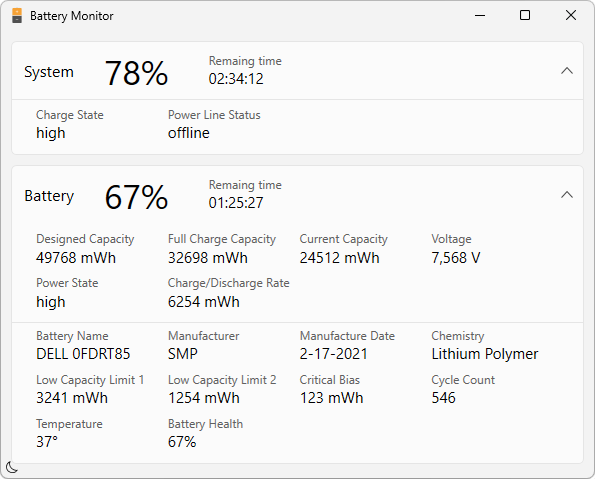
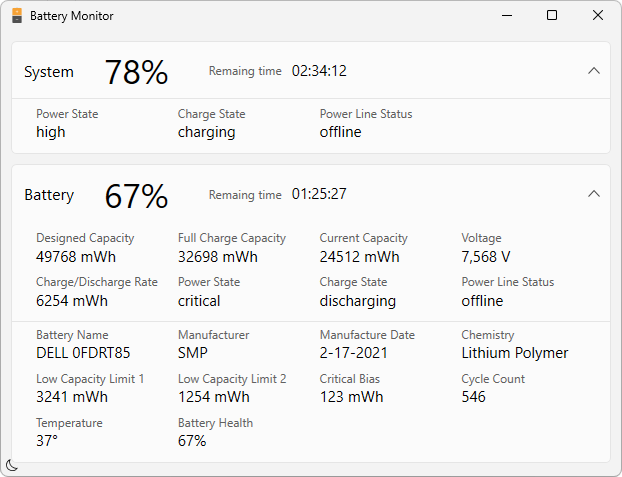
split up combined power and charging status to separate display entities

diff --git a/MainWindow.xaml b/MainWindow.xaml
@@ -7,8 +7,8 @@
         xmlns:s="clr-namespace:BatteryMonitor"
         x:Name="Window"
         Title="{x:Static p:Resources.WindowTitle}"
-        Width="364"
-        Height="329"
+        Width="477"
+        Height="340"
         MinWidth="250"
         MinHeight="251"
         Background="{DynamicResource WindowBackgroundBrush}"
@@ -51,7 +51,7 @@
 
                                     <s:ValueControl x:Name="SystemCapacity"
                                                     Grid.Column="1"
-                                                    Margin="30,2,20,2"
+                                                    Margin="30,1,20,2"
                                                     Style="{StaticResource PercentValueStyle}"
                                                     Value="" />
                                 </Grid>
@@ -62,8 +62,10 @@
                             </WrapPanel>
                         </Grid>
                     </Expander.Header>
-                    <WrapPanel Margin="20,2,0,0">
+                    <WrapPanel Margin="20,2,0,0" HorizontalAlignment="Stretch">
                         <s:LabelValuePair x:Name="SystemPowerState"
+                                          Label="{x:Static p:Resources.LabelPowerState}" />
+                        <s:LabelValuePair x:Name="SystemChargeState"
                                           Label="{x:Static p:Resources.LabelChargeState}" />
                         <s:LabelValuePair x:Name="SystemPowerLineStatus"
                                           Label="{x:Static p:Resources.LabelPowerLineStatus}" />
@@ -104,7 +106,7 @@
                                                       Style="{StaticResource RemainingTimeValueStyle}" />
                                 </WrapPanel>
 
-                                <WrapPanel Margin="20,11,0,0">
+                                <WrapPanel Margin="20,11,0,0" HorizontalAlignment="Stretch">
                                     <s:LabelValuePair x:Name="DesignedCapacity"
                                                       Label="{x:Static p:Resources.LabelDesignCapacity}"
                                                       Unit=" mWh" />
@@ -117,16 +119,20 @@
                                     <s:LabelValuePair x:Name="Voltage"
                                                       Label="{x:Static p:Resources.LabelVoltage}"
                                                       Unit=" V" />
-                                    <s:LabelValuePair x:Name="PowerState"
-                                                      Label="{x:Static p:Resources.LabelPowerState}" />
                                     <s:LabelValuePair x:Name="Rate"
                                                       Label="{x:Static p:Resources.LabelRate}"
                                                       Unit=" mWh" />
+                                    <s:LabelValuePair x:Name="ChargeState"
+                                                      Label="{x:Static p:Resources.LabelPowerState}" />
+                                    <s:LabelValuePair x:Name="PowerState"
+                                                      Label="{x:Static p:Resources.LabelChargeState}" />
+                                    <s:LabelValuePair x:Name="PowerLineState"
+                                                      Label="{x:Static p:Resources.LabelPowerLineStatus}" />
                                 </WrapPanel>
                             </StackPanel>
                         </Grid>
                     </Expander.Header>
-                    <WrapPanel Margin="20,0,0,0">
+                    <WrapPanel Margin="20,0,0,0" HorizontalAlignment="Stretch">
                         <s:LabelValuePair x:Name="DeviceName"
                                           Label="{x:Static p:Resources.LabelBatteryName}" />
                         <s:LabelValuePair x:Name="Manufacture"

diff --git a/Styles.xaml b/Styles.xaml
@@ -593,6 +593,7 @@
                         <Grid.ColumnDefinitions>
                             <ColumnDefinition Width="Auto"
                                               SharedSizeGroup="ColumnGroupLabel" />
+                            <ColumnDefinition Width="10"/>
                         </Grid.ColumnDefinitions>
                         <Grid.RowDefinitions>
                             <RowDefinition />
@@ -692,7 +693,6 @@
                         <Grid.RowDefinitions>
                             <RowDefinition />
                         </Grid.RowDefinitions>
-                        <StackPanel>
                             <Label Grid.Column="0"
                                    Content="{TemplateBinding Label}"
                                    Style="{DynamicResource DescriptionStyle}" />
@@ -705,7 +705,6 @@
                                    Content="--"
                                    Style="{DynamicResource ValueStyle}"
                                    Visibility="Collapsed" />
-                        </StackPanel>
                     </Grid>
                     <ControlTemplate.Triggers>
                         <Trigger Property="Value" Value="">

diff --git a/MainWindow.xaml.cs b/MainWindow.xaml.cs
@@ -44,20 +44,23 @@ namespace BatteryMonitor
 #if DEBUG
             else
             {
-                ShowFakeDate();
+                ShowFakeData();
             }
 #endif
         }
 
 #if DEBUG
-        private void ShowFakeDate()
+        private void ShowFakeData()
         {
-            SystemPowerState.Value = ConvertPowerState(BatteryChargeStatus.High);
-            SystemPowerLineStatus.Value = ConvertPowerLineStatus(System.Windows.Forms.PowerLineStatus.Offline);
+            // system
+
+            SystemPowerState.Value = ConvertSystemPowerState(BatteryChargeStatus.High);
+            SystemChargeState.Value = ConvertSystemChargeState(BatteryChargeStatus.Charging, System.Windows.Forms.PowerLineStatus.Online);
+            SystemPowerLineStatus.Value = ConvertSystemPowerLineStatus(System.Windows.Forms.PowerLineStatus.Offline);
             RemainingSystemTime.Value = TimeSpan.FromSeconds(2 * 60 * 60 + 34 * 60 + 12).ToString();
             SystemCapacity.Value = "78";
 
-            ///
+            // battery
 
             DeviceName.Value = "DELL 0FDRT85";
             Manufacture.Value = "SMP";
@@ -76,7 +79,9 @@ namespace BatteryMonitor
             DefaultAlert1.Value = "3241";
             DefaultAlert2.Value = "1254";
             CriticalBias.Value = "123";
-            PowerState.Value = ConvertPowerState(BatteryChargeStatus.High);
+            ChargeState.Value = ConvertBatteryChargeState(PowerStates.Critical);
+            PowerState.Value = ConvertBatteryPowerState(PowerStates.Discharging);
+            PowerLineState.Value = ConvertBatteryPowerLineState(0);
             CylceCount.Value = "546";
             Temperature.Value = "37";
         }
@@ -100,8 +105,9 @@ namespace BatteryMonitor
         {
             PowerStatus pwr = SystemInformation.PowerStatus;
 
-            SystemPowerState.Value = ConvertPowerState(pwr.BatteryChargeStatus);
-            SystemPowerLineStatus.Value = ConvertPowerLineStatus(pwr.PowerLineStatus);
+            SystemPowerState.Value = ConvertSystemPowerState(pwr.BatteryChargeStatus);
+            SystemChargeState.Value = ConvertSystemChargeState(pwr.BatteryChargeStatus, pwr.PowerLineStatus);
+            SystemPowerLineStatus.Value = ConvertSystemPowerLineStatus(pwr.PowerLineStatus);
 
             if ((pwr.BatteryChargeStatus & BatteryChargeStatus.NoSystemBattery) != 0)
             {
@@ -122,7 +128,7 @@ namespace BatteryMonitor
             return true;
         }
 
-        private string ConvertPowerLineStatus(System.Windows.Forms.PowerLineStatus powerLineStatus)
+        private string ConvertSystemPowerLineStatus(System.Windows.Forms.PowerLineStatus powerLineStatus)
         {
             if (powerLineStatus == System.Windows.Forms.PowerLineStatus.Online)
             {
@@ -137,48 +143,54 @@ namespace BatteryMonitor
             return Properties.Resources.ChargeStatusUnknown;
         }
 
-        private string ConvertPowerState(BatteryChargeStatus powerState)
+        private string ConvertSystemPowerState(BatteryChargeStatus powerState)
         {
             if (powerState == BatteryChargeStatus.Unknown)
             {
                 return Properties.Resources.ChargeStatusUnknown;
             }
 
-            List<string> states = new List<string>();
-            bool stateFound = false;
-
             if ((powerState & BatteryChargeStatus.NoSystemBattery) != 0)
             {
-                return Properties.Resources.ChargeStatusNoSystemBattery;
+                return string.Empty;
             }
-
-            if ((powerState & BatteryChargeStatus.Charging) != 0)
-                states.Add(Properties.Resources.ChargeStatusCharging);
 
             if ((powerState & BatteryChargeStatus.Low) != 0)
             {
-                stateFound = true;
-                states.Add(Properties.Resources.ChargeStatusLow);
+                return Properties.Resources.ChargeStatusLow;
             }
 
             if ((powerState & BatteryChargeStatus.High) != 0)
             {
-                stateFound = true;
-                states.Add(Properties.Resources.ChargeStatusHigh);
+                return Properties.Resources.ChargeStatusHigh;
             }
 
             if ((powerState & BatteryChargeStatus.Critical) != 0)
             {
-                stateFound = true;
-                states.Add(Properties.Resources.ChargeStatusCritical);
+                return Properties.Resources.ChargeStatusCritical;
             }
 
-            if (!stateFound)
+            return Properties.Resources.ChargeStatusOk;
+        }
+
+        private string ConvertSystemChargeState(BatteryChargeStatus powerState, System.Windows.Forms.PowerLineStatus powerLineStatus)
+        {
+            if (powerState == BatteryChargeStatus.Unknown)
             {
-                states.Add(Properties.Resources.ChargeStatusOk);
+                return Properties.Resources.ChargeStatusUnknown;
             }
 
-            return string.Join(", ", states);
+            if ((powerState & BatteryChargeStatus.Charging) != 0)
+            {
+                return Properties.Resources.ChargeStatusCharging;
+            }
+
+            if (powerLineStatus == System.Windows.Forms.PowerLineStatus.Offline)
+            {
+                return Properties.Resources.PowerStateDischarging;
+            }
+
+            return Properties.Resources.PowerStateNotCharging;
         }
 
 
@@ -222,7 +234,9 @@ namespace BatteryMonitor
                 DefaultAlert1.Value = battery.DefaultAlert1.ToString();
                 DefaultAlert2.Value = battery.DefaultAlert2.ToString();
                 CriticalBias.Value = battery.CriticalBias.ToString();
-                PowerState.Value = ConvertPowerState(battery.PowerState);
+                ChargeState.Value = ConvertBatteryChargeState(battery.PowerState);
+                PowerState.Value = ConvertBatteryPowerState(battery.PowerState);
+                PowerLineState.Value = ConvertBatteryPowerLineState(battery.PowerState);
                 CylceCount.Value = battery.CycleCount.ToString();
 
                 if (!double.IsNaN(battery.Temperature))
@@ -242,23 +256,39 @@ namespace BatteryMonitor
             }
         }
 
-        private string ConvertPowerState(PowerStates powerState)
+        private string ConvertBatteryPowerLineState(PowerStates powerState)
         {
-            List<string> states = new List<string>();
-
             if ((powerState & PowerStates.PowerOnline) != 0)
-                states.Add(Properties.Resources.PowerStatePluggedIn);
+            {
+                return Properties.Resources.PowerStatePluggedIn;
+            }
 
+            return Properties.Resources.PowerLineStateOffline;
+        }
+
+        private string ConvertBatteryPowerState(PowerStates powerState)
+        {
             if ((powerState & PowerStates.Charging) != 0)
-                states.Add(Properties.Resources.PowerStateCharging);
+            {
+                return Properties.Resources.PowerStateCharging;
+            }
 
             if ((powerState & PowerStates.Discharging) != 0)
-                states.Add(Properties.Resources.PowerStateDischarging);
+            {
+                return Properties.Resources.PowerStateDischarging;
+            }
 
+            return Properties.Resources.PowerStateNotCharging;
+        }
+
+        private string ConvertBatteryChargeState(PowerStates powerState)
+        {
             if ((powerState & PowerStates.Critical) != 0)
-                states.Add(Properties.Resources.PowerStateCritical);
+            {
+                return Properties.Resources.PowerStateCritical;
+            }
 
-            return string.Join(", ", states);
+            return Properties.Resources.PowerStateNormal;
         }
 
         private string ConvertChemistry(string chemistry)
@@ -326,19 +356,6 @@ namespace BatteryMonitor
         private void Test()
         {
             StringBuilder sb = new StringBuilder();
-
-            PowerStatus pwr = SystemInformation.PowerStatus;
-
-            sb.AppendLine(pwr.BatteryChargeStatus.ToString("X"));
-            sb.AppendLine(ConvertPowerState(pwr.BatteryChargeStatus));
-
-            sb.AppendLine(pwr.BatteryLifePercent.ToString());
-            sb.AppendLine(TimeSpan.FromSeconds(pwr.BatteryLifeRemaining).ToString());
-            sb.AppendLine(TimeSpan.FromSeconds(pwr.BatteryFullLifetime).ToString());
-
-            var battery = BatteryInfo.BatteryInfo.GetBatteryInfo(currentBatterieIndex);
-            var ps = battery.PowerState.ToString("X");
-            sb.AppendLine(ps);
 
             Error.Content = sb.ToString();
         }

diff --git a/Properties/Resources.Designer.cs b/Properties/Resources.Designer.cs
@@ -439,6 +439,24 @@ namespace BatteryMonitor.Properties {
         }
         
         /// <summary>
+        ///   Looks up a localized string similar to normal.
+        /// </summary>
+        public static string PowerStateNormal {
+            get {
+                return ResourceManager.GetString("PowerStateNormal", resourceCulture);
+            }
+        }
+        
+        /// <summary>
+        ///   Looks up a localized string similar to not charging.
+        /// </summary>
+        public static string PowerStateNotCharging {
+            get {
+                return ResourceManager.GetString("PowerStateNotCharging", resourceCulture);
+            }
+        }
+        
+        /// <summary>
         ///   Looks up a localized string similar to plugged in.
         /// </summary>
         public static string PowerStatePluggedIn {

diff --git a/Properties/AssemblyInfo.cs b/Properties/AssemblyInfo.cs
@@ -48,5 +48,5 @@ using System.Windows;
 //      Build Number
 //      Revision
 //
-[assembly: AssemblyVersion("1.0.3.0")]
-[assembly: AssemblyFileVersion("1.0.3.0")]
+[assembly: AssemblyVersion("1.0.4.0")]
+[assembly: AssemblyFileVersion("1.0.4.0")]
